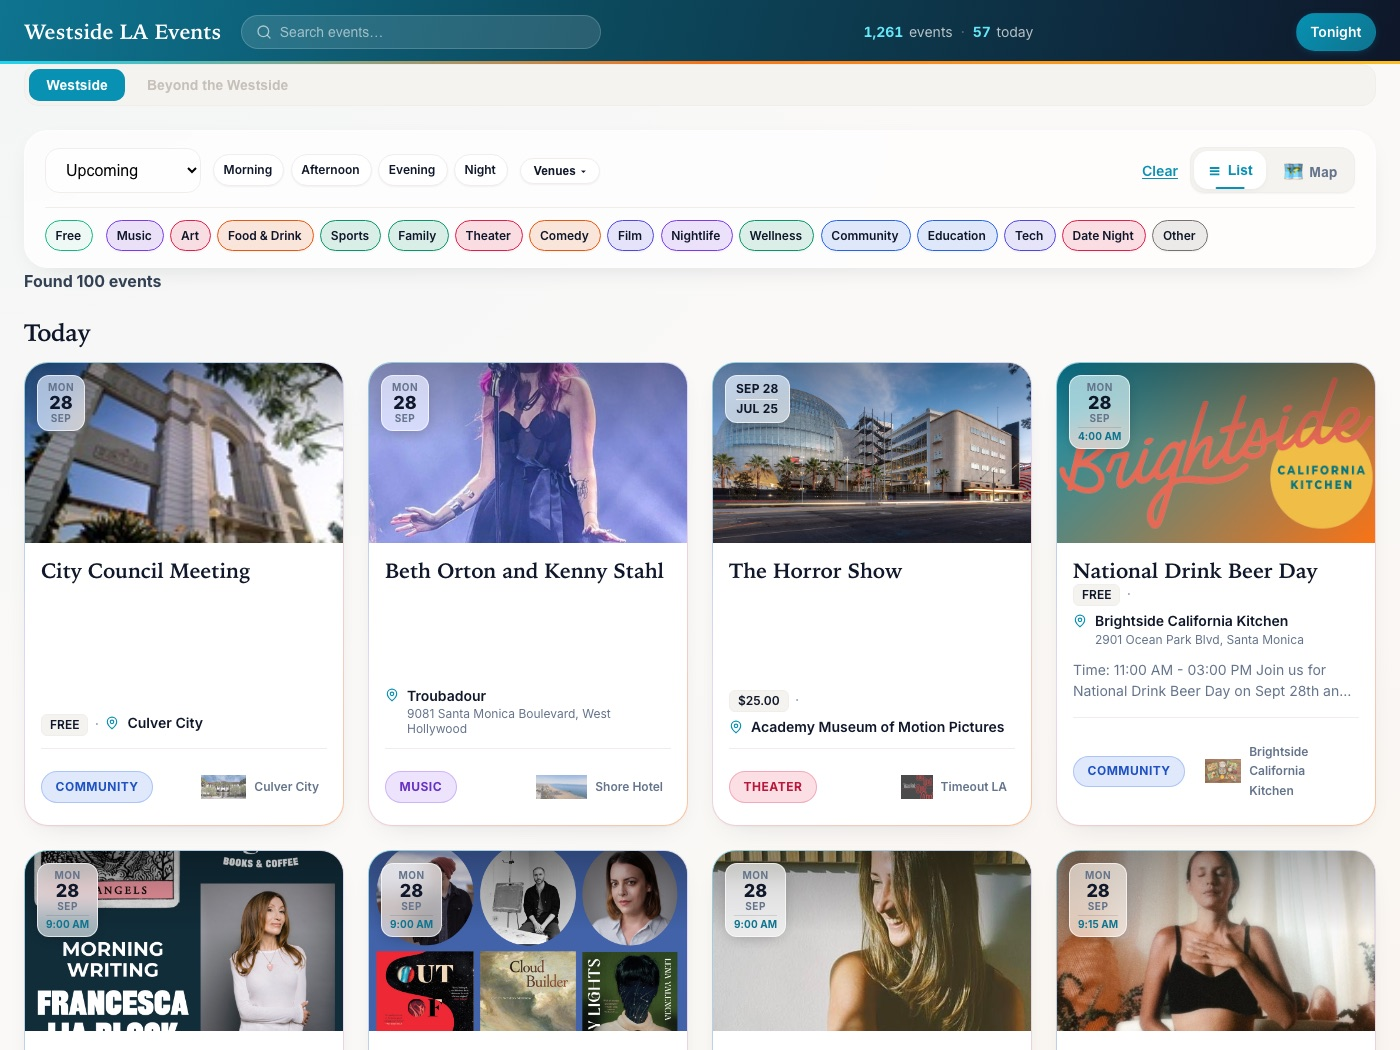
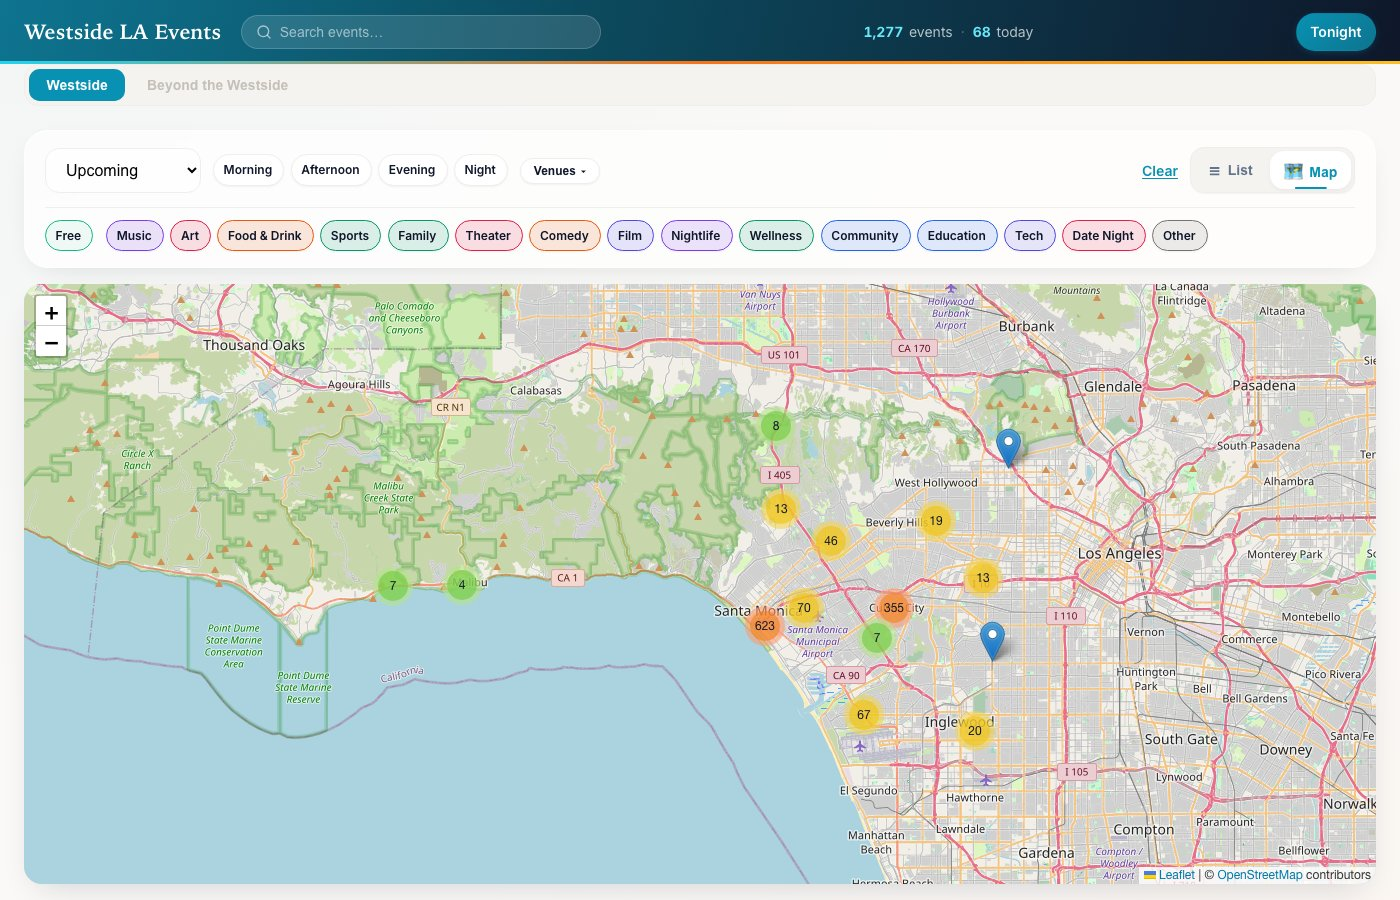
Projects: new Westside LA Events screenshot (current design, map view)
Map view shows the redesign without third-party event photos. Project images anchor top-left so headers stay visible; wake-up note moved out of the link.

diff --git a/theme.scss b/theme.scss
@@ -287,3 +287,5 @@ div.sourceCode, pre.sourceCode { background: var(--panel) !important; }
   @media (max-width: 1100px) { grid-template-columns: repeat(3, minmax(0, 1fr)); }
   @media (max-width: 700px) { grid-template-columns: repeat(2, minmax(0, 1fr)); } }
 .tile .tile-ill { width: 100%; aspect-ratio: 16 / 9; display: block; margin-bottom: 0.4rem; }
+.proj .fig img { object-position: top left; }
+.proj .body .wake { font-size: 0.8rem; color: var(--ink-3); }
